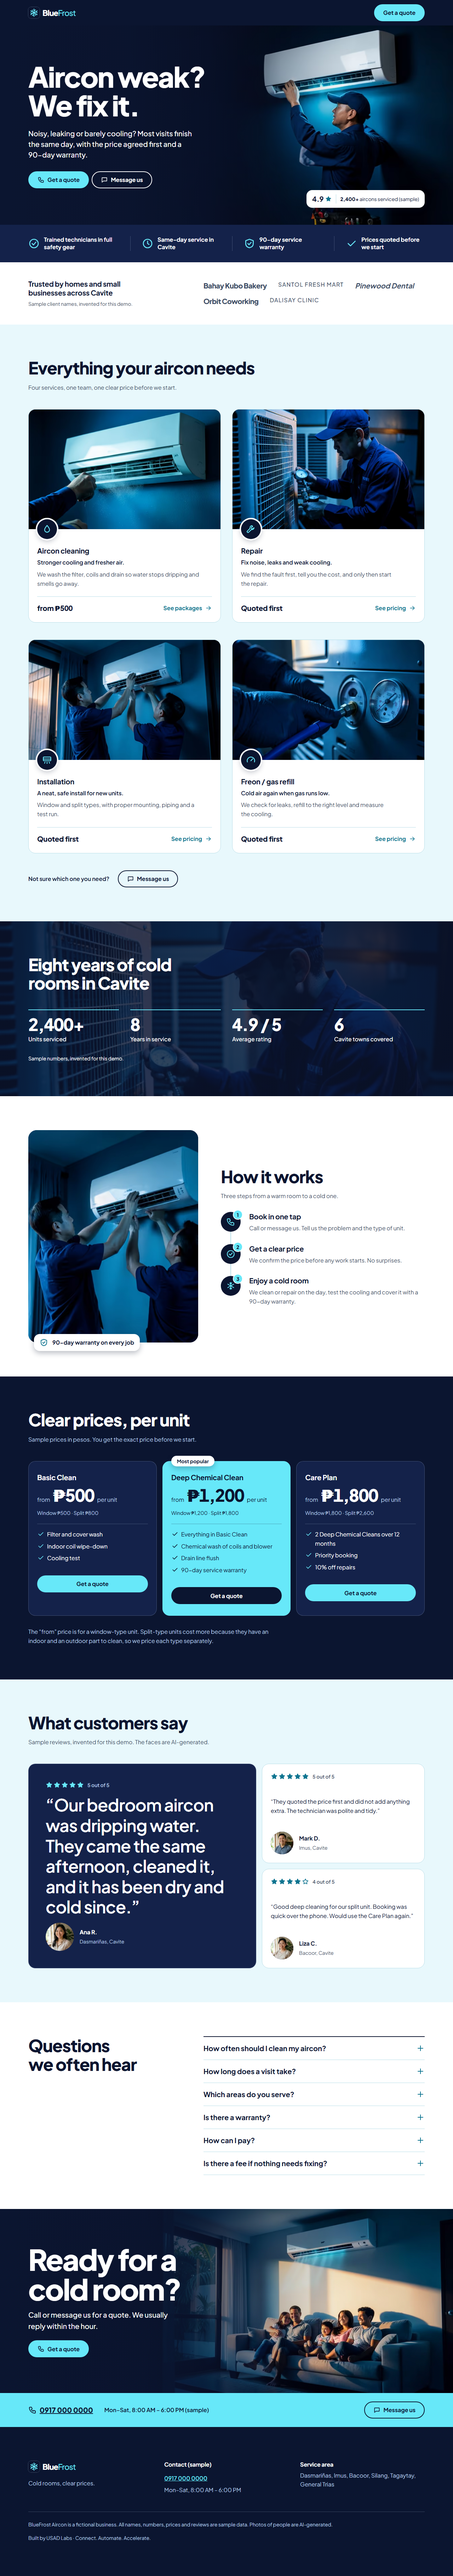
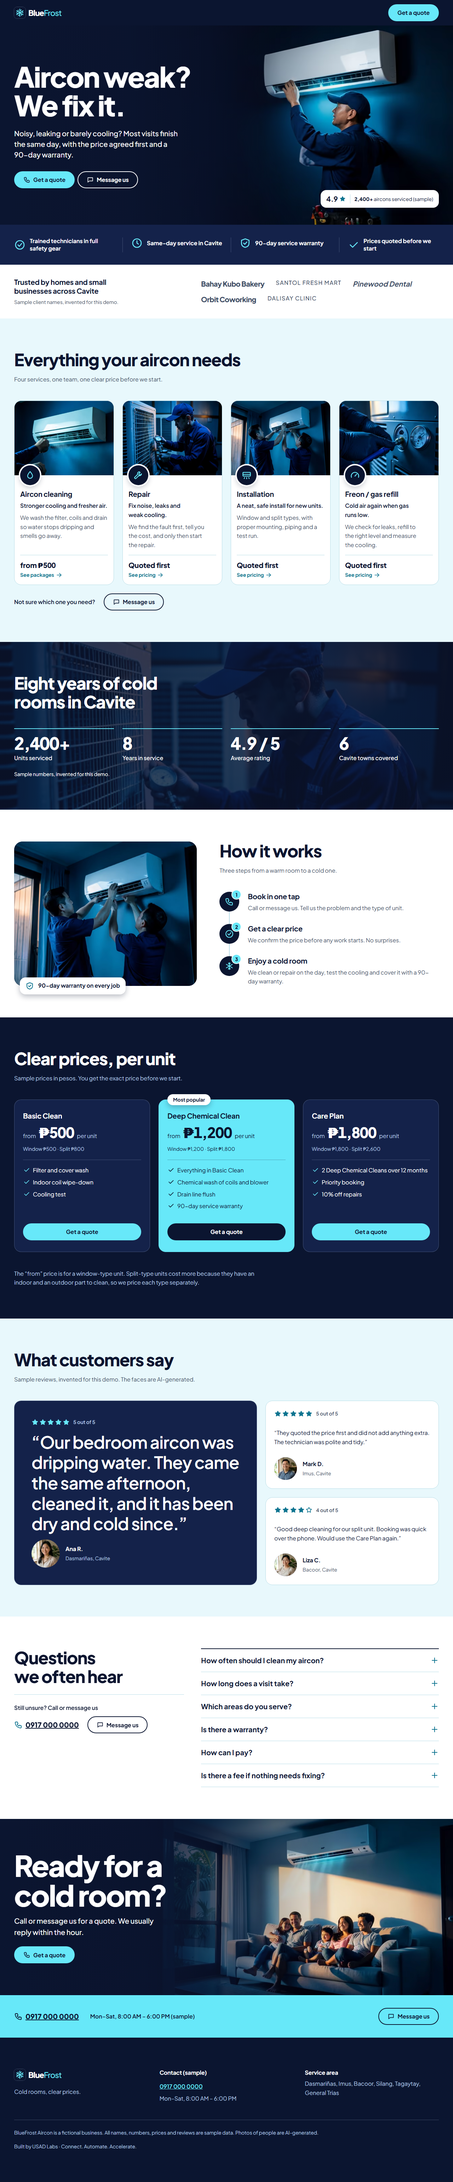
feat: responsive layout polish (aligned pricing, 4-col services, spacing tokens) + layout tests

diff --git a/tests/layout.spec.ts b/tests/layout.spec.ts
@@ -1,0 +1,144 @@
+import { test, expect, type Page } from '@playwright/test';
+
+// Device / alignment regression tests, run against the built site (same as the other specs).
+const WIDTHS = [360, 390, 768, 1024, 1280, 1440, 1920];
+const TOL = 2; // px: allowed difference for "same y"
+
+type Box = { top: number; height: number };
+
+// Page-y boxes of every element matching `selector`.
+const boxes = (page: Page, selector: string) =>
+  page.evaluate(
+    (sel) =>
+      [...document.querySelectorAll(sel)].map((el) => {
+        const r = el.getBoundingClientRect();
+        return { top: r.top + window.scrollY, height: r.height };
+      }),
+    selector,
+  );
+
+// Cards whose tops are within TOL of each other are in the same grid row.
+function rowsOf<T extends { top: number }>(items: T[]): T[][] {
+  const rows: T[][] = [];
+  for (const it of [...items].sort((a, b) => a.top - b.top)) {
+    const row = rows.find((r) => Math.abs(r[0].top - it.top) <= TOL);
+    row ? row.push(it) : rows.push([it]);
+  }
+  return rows;
+}
+
+// Row sizes, e.g. [2, 2] or [3] or [1, 1, 1]. Orphan = a lone card in a row while another row holds 2+.
+const hasOrphan = (sizes: number[]) => sizes.some((n) => n === 1) && sizes.some((n) => n >= 2);
+
+for (const width of WIDTHS) {
+  test.describe(`layout at ${width}px`, () => {
+    test.beforeEach(async ({ page }) => {
+      await page.setViewportSize({ width, height: 900 });
+      await page.goto('/');
+      await page.evaluate(() => document.fonts.ready); // web font changes text widths, so wait for it
+    });
+
+    test('no sideways scroll', async ({ page }) => {
+      const { sw, cw } = await page.evaluate(() => ({
+        sw: document.documentElement.scrollWidth,
+        cw: document.documentElement.clientWidth,
+      }));
+      expect(sw).toBeLessThanOrEqual(cw);
+    });
+
+    test('pricing: quote buttons line up and no orphan row', async ({ page }) => {
+      const cards = await boxes(page, '#pricing ul.grid > li');
+      expect(cards).toHaveLength(3);
+      const buttons = await boxes(page, '#pricing ul.grid > li > a.btn');
+      expect(buttons).toHaveLength(3);
+      const rows = rowsOf(cards.map((c, i) => ({ ...c, btn: buttons[i].top })));
+      for (const row of rows) {
+        const tops = row.map((c) => c.btn);
+        expect(Math.max(...tops) - Math.min(...tops), `button tops in one row: ${tops}`).toBeLessThanOrEqual(TOL);
+      }
+      expect(hasOrphan(rows.map((r) => r.length)), `pricing row sizes: ${rows.map((r) => r.length)}`).toBe(false);
+    });
+
+    test('services: price rows line up and no orphan row', async ({ page }) => {
+      const cards = await boxes(page, '#services ul.cards > li');
+      expect(cards).toHaveLength(4);
+      const prices = await page.evaluate(() =>
+        [...document.querySelectorAll('#services ul.cards > li .price')].map((el) => ({
+          top: el.getBoundingClientRect().top + window.scrollY,
+          text: (el.querySelector('strong')?.textContent ?? '').trim(),
+        })),
+      );
+      // content, not just position: every card shows "from ₱<n>" or "Quoted first"
+      expect(prices).toHaveLength(4);
+      for (const p of prices) expect(p.text).toMatch(/^(from ₱[\d,]+|Quoted first)$/);
+      const rows = rowsOf(cards.map((c, i) => ({ ...c, price: prices[i].top })));
+      for (const row of rows) {
+        const tops = row.map((c) => c.price);
+        expect(Math.max(...tops) - Math.min(...tops), `price tops in one row: ${tops}`).toBeLessThanOrEqual(TOL);
+      }
+      expect(hasOrphan(rows.map((r) => r.length)), `services row sizes: ${rows.map((r) => r.length)}`).toBe(false);
+    });
+
+    test('section padding follows the tokens', async ({ page }) => {
+      // Resolve --section-pad / --strip-pad to px at this width with a probe element.
+      const pad = await page.evaluate(() => {
+        const probe = document.createElement('div');
+        document.body.append(probe);
+        const px = (v: string) => {
+          probe.style.paddingTop = `var(${v})`;
+          return parseFloat(getComputedStyle(probe).paddingTop);
+        };
+        const out = { section: px('--section-pad'), strip: px('--strip-pad') };
+        probe.remove();
+        return out;
+      });
+      expect(pad.strip).toBeCloseTo(pad.section * 0.4, 1);
+
+      // Each top-level <section> of <main> paints its bands itself (.band) or via inner .band divs (CTA).
+      // Strips (--strip-pad) per the CSS: .trust (TrustRow), .logos (LogoRow), .contact (CtaBand).
+      // Hero is excluded on purpose (it sets its own photo-led padding).
+      const found = await page.evaluate(() =>
+        [...document.querySelectorAll('main > section')].map((s) => ({
+          name: s.id || s.className.replace(/\bband(-\w+)?\b/g, '').trim() || s.getAttribute('aria-labelledby') || '?',
+          surfaces: (s.classList.contains('band') ? [s] : [...s.querySelectorAll(':scope > .band')]).map((b) => ({
+            strip: b.classList.contains('trust') || b.classList.contains('logos') || b.classList.contains('contact'),
+            stage: b.classList.contains('stage'),
+            hero: b.classList.contains('hero'),
+            top: parseFloat(getComputedStyle(b).paddingTop),
+          })),
+        })),
+      );
+      expect(found, 'hero, trust, logos, services, stats, how, pricing, reviews, faq, cta').toHaveLength(10);
+
+      let regular = 0;
+      let strips = 0;
+      for (const s of found) {
+        for (const b of s.surfaces) {
+          if (b.hero) continue;
+          if (b.strip) {
+            strips++;
+            expect(b.top, `${s.name} is a strip`).toBeCloseTo(pad.strip, 1);
+          } else if (b.stage && width < 1024) {
+            // CTA photo band on phones/tablets: 220px of photo sits above the text on purpose (CtaBand.astro).
+            expect(b.top, `${s.name} stage (photo offset below 1024px)`).toBe(220);
+          } else {
+            regular++;
+            expect(b.top, `${s.name} section`).toBeCloseTo(pad.section, 1);
+          }
+        }
+      }
+      expect(strips, 'trust + logos + CTA contact').toBe(3);
+      expect(regular, 'services, stats, how, pricing, reviews, faq' + (width < 1024 ? '' : ' + CTA stage')).toBe(
+        width < 1024 ? 6 : 7,
+      );
+    });
+  });
+}
+
+test('services section is under 1,000px tall at 1440px', async ({ page }) => {
+  await page.setViewportSize({ width: 1440, height: 900 });
+  await page.goto('/');
+  await page.evaluate(() => document.fonts.ready);
+  const [services] = await boxes(page, '#services');
+  expect(services.height).toBeLessThan(1000);
+});

diff --git a/src/styles/global.css b/src/styles/global.css
@@ -61,7 +61,7 @@ h3 { font-size: var(--t-h3); font-weight: 700; letter-spacing: -0.01em; line-hei
 }
 
 .container { width: 100%; max-width: calc(var(--max-width) + 2 * var(--gutter)); margin-inline: auto; padding-inline: var(--gutter); }
-.section-head { max-width: 40rem; margin-bottom: var(--space-12); }
+.section-head { max-width: 40rem; margin-bottom: var(--head-gap); }
 .section-head p { margin-top: var(--space-4); color: var(--muted); max-width: 65ch; }
 
 /* Photo behind a section's content (hero, stats, CTA). The section needs position: relative + isolation: isolate.
@@ -89,7 +89,7 @@ h3 { font-size: var(--t-h3); font-weight: 700; letter-spacing: -0.01em; line-hei
   background: var(--cyan); border-color: var(--cyan);
 }
 
-.grid { display: grid; gap: var(--space-6); grid-template-columns: repeat(auto-fit, minmax(min(100%, 15rem), 1fr)); }
+.grid { display: grid; gap: var(--grid-gap); grid-template-columns: repeat(auto-fit, minmax(min(100%, 15rem), 1fr)); }
 
 /* Buttons: >= 44px tap target, pill shape. Colours come from the band (--btn-*). */
 .btn {

diff --git a/src/styles/tokens.css b/src/styles/tokens.css
@@ -35,17 +35,15 @@
   /* the only shadow: short and navy-tinted, used where one thing overlaps another (badge on photo, card on photo) */
   --shadow-float: 0 6px 16px rgba(11, 21, 48, 0.28);
   --radius-pill: 999px;
-  --max-width: 1120px;
-  --gutter: 16px;
-  --section-pad: 64px;
+  /* layout: one container, one vertical rhythm (every band uses --section-pad; slim strips use --strip-pad) */
+  --max-width: 1200px;
+  --gutter: clamp(16px, 4vw, 40px);
+  --section-pad: clamp(56px, 7vw, 96px);
+  --strip-pad: calc(var(--section-pad) * 0.4);
+  --head-gap: clamp(32px, 4vw, 48px);  /* heading block to its content */
+  --grid-gap: clamp(16px, 2vw, 24px);
   --quote-bar-height: 80px;
 
   --font: 'Plus Jakarta Sans', system-ui, -apple-system, 'Segoe UI', Roboto, sans-serif;
 }
 
-@media (min-width: 768px) {
-  :root {
-    --gutter: 24px;
-    --section-pad: 96px;
-  }
-}

diff --git a/work/04-build/rwd/summary.py b/work/04-build/rwd/summary.py
@@ -1,0 +1,8 @@
+import json,sys
+d=json.load(sys.stdin)
+for w,v in d.items():
+    print('==',w,'doc',v['doc'],'sw',v['sw'],'cw',v['cw'])
+    print(' ',v['heights'])
+    print('  pricing btn tops',v['pricingBtnTops'],'card h',v['pricingCardH'],'card tops',v['pricingCardTops'])
+    print('  svc tops',v['svcCardTops'],'h',v['svcCardH'],'price tops',v['svcPriceTops'])
+    print('  trust tops',v['trustItemTops'],'lefts',v['containerLefts'])

diff --git a/TEAM.md b/TEAM.md
@@ -102,5 +102,9 @@ Plugins: ponytail is on for every subagent (its SubagentStart hook, mode `full`)
 | 2026-11-03 | 04-build | Bolt | v3 photo-rich (Antixor roofing pattern): photo hero + floating proof card, photo service cards, trust photo band, steps + photo, face reviews, photo CTA. Gate 5/5, lhci 99/100/100/100, first load about 135 KB. ponytail: on | 216,869 (77 tool uses, 19.7 min) |
 | 2026-11-03 | 04b-look | lead | **Look check caught:** README full-page screenshots showed lazy images as empty boxes (screenshot spec does not scroll) → sent to Bugsy. Install photo reused in steps (Minor). FR-015 updated for AI photos | n/a |
 | 2026-11-03 | 05-qa | Bugsy (haiku) | v3 re-check PASS, 0 bugs. Fixed the screenshot spec (scroll + wait for every img); added an all-images-loaded assertion. lhci 99/100/100/100. ponytail: on | 84,622 (29 tool uses, 4.6 min) |
+| 2026-11-03 | 04b-look | user | **User correction (3rd):** desktop "Get a quote" buttons not aligned, too much blank space, uneven section sizes; must work on every device | n/a |
+| 2026-11-03 | 04b-look | lead | Look check at 1440/1024/768/390: pricing buttons at 3 different heights, services 1,685px tall, uneven padding, a 2+1 orphan pricing card at 768, trust row wrapping 4 lines | n/a |
+| 2026-11-03 | 04-build | Bolt | Responsive polish: 1200px container, section/strip padding tokens, services 1/2/4 cols, equal-height pricing, FAQ help block, stretch-aligned steps. 1440 total 7,352 → 6,371px. Gate 5/5. ponytail: on | 145,686 (61 tool uses, 10.4 min) |
+| 2026-11-03 | 05-qa | Bugsy | tests/layout.spec.ts: 29 tests (7 widths × no sideways scroll, aligned buttons/prices, no orphans, one padding token, services < 1,000px), proven to fail on broken CSS; 87/87 with repeat-each=3. lhci 100/100/100/100. 0 bugs. ponytail: on | see notification |
 
 **Token tracking:** subagent tokens come from each task notification. Lead tokens: run `/caveman-stats` or `explain-usage` at the end of each session and paste the total here.

diff --git a/design-system/bluefrost-aircon/MASTER.md b/design-system/bluefrost-aircon/MASTER.md
@@ -20,7 +20,7 @@
 | Stars | accent colour (`#0E7490` on white, cyan on navy), always paired with text "N out of 5" / `aria-label` |
 | Motion | **No JS.** CSS colour transitions 150 ms, press `scale(0.97)`, hover in `(hover: hover)`; all removed under `prefers-reduced-motion`. Logos are a static row |
 | Effects | Flat: no gradients, no shadows (borders only). Cold-air wave SVG used twice: hero bottom edge, CTA band line (>= 768px) |
-| Radius / spacing | cards 16px, hero photo 24px (48px left corners on desktop), buttons 999px; 4/8/12/16/24/32/48/64/96 scale; section padding 64px mobile / 96px desktop; max-width 1120px; 16/24px gutters |
+| Radius / spacing | cards 16px, hero photo 24px (48px left corners on desktop), buttons 999px; 4/8/12/16/24/32/48/64/96 scale; `--section-pad` clamp(56px,7vw,96px) on every section; strips (trust, logos, CTA bar) use `--strip-pad` = 0.4 × section-pad; one `.container` max-width 1200px with `--gutter` clamp(16px,4vw,40px). Grids: services 1/2/4 cols at 600/1100px; pricing 1 col <900, 3 equal-height cols ≥900 with buttons on one line; never an orphan card |
 | Layouts | hero split + bleed photo / trust 2x2 to 4 strip / logos label-left / services numbered rows / stats 2x2 to 4 / how-it-works head-left + timeline / pricing 3 cards (popular = cyan) / reviews 1 big + 2 / FAQ head-left + list-right / CTA band |
 | Tap targets | >= 44x44 px; sticky bottom CTA bar on phones < 768px |
 | Icons | Own small SVG set, 24px, stroke 2, `currentColor` |
